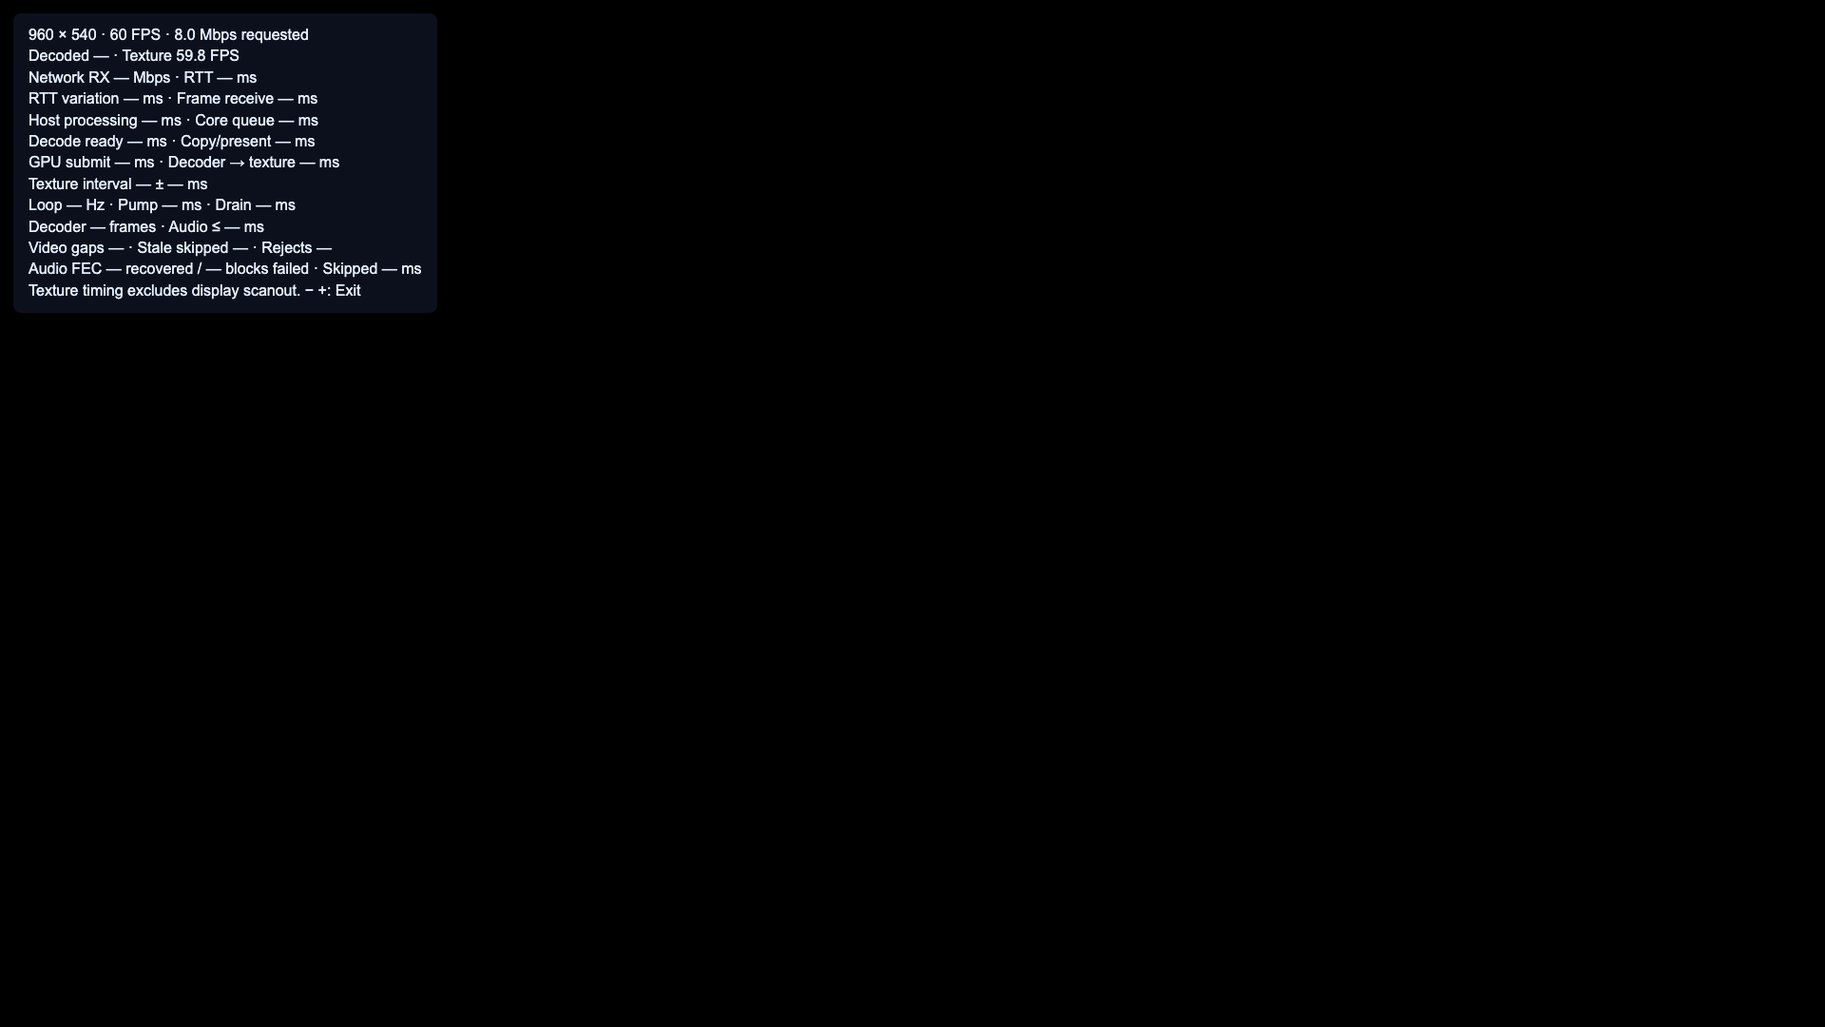
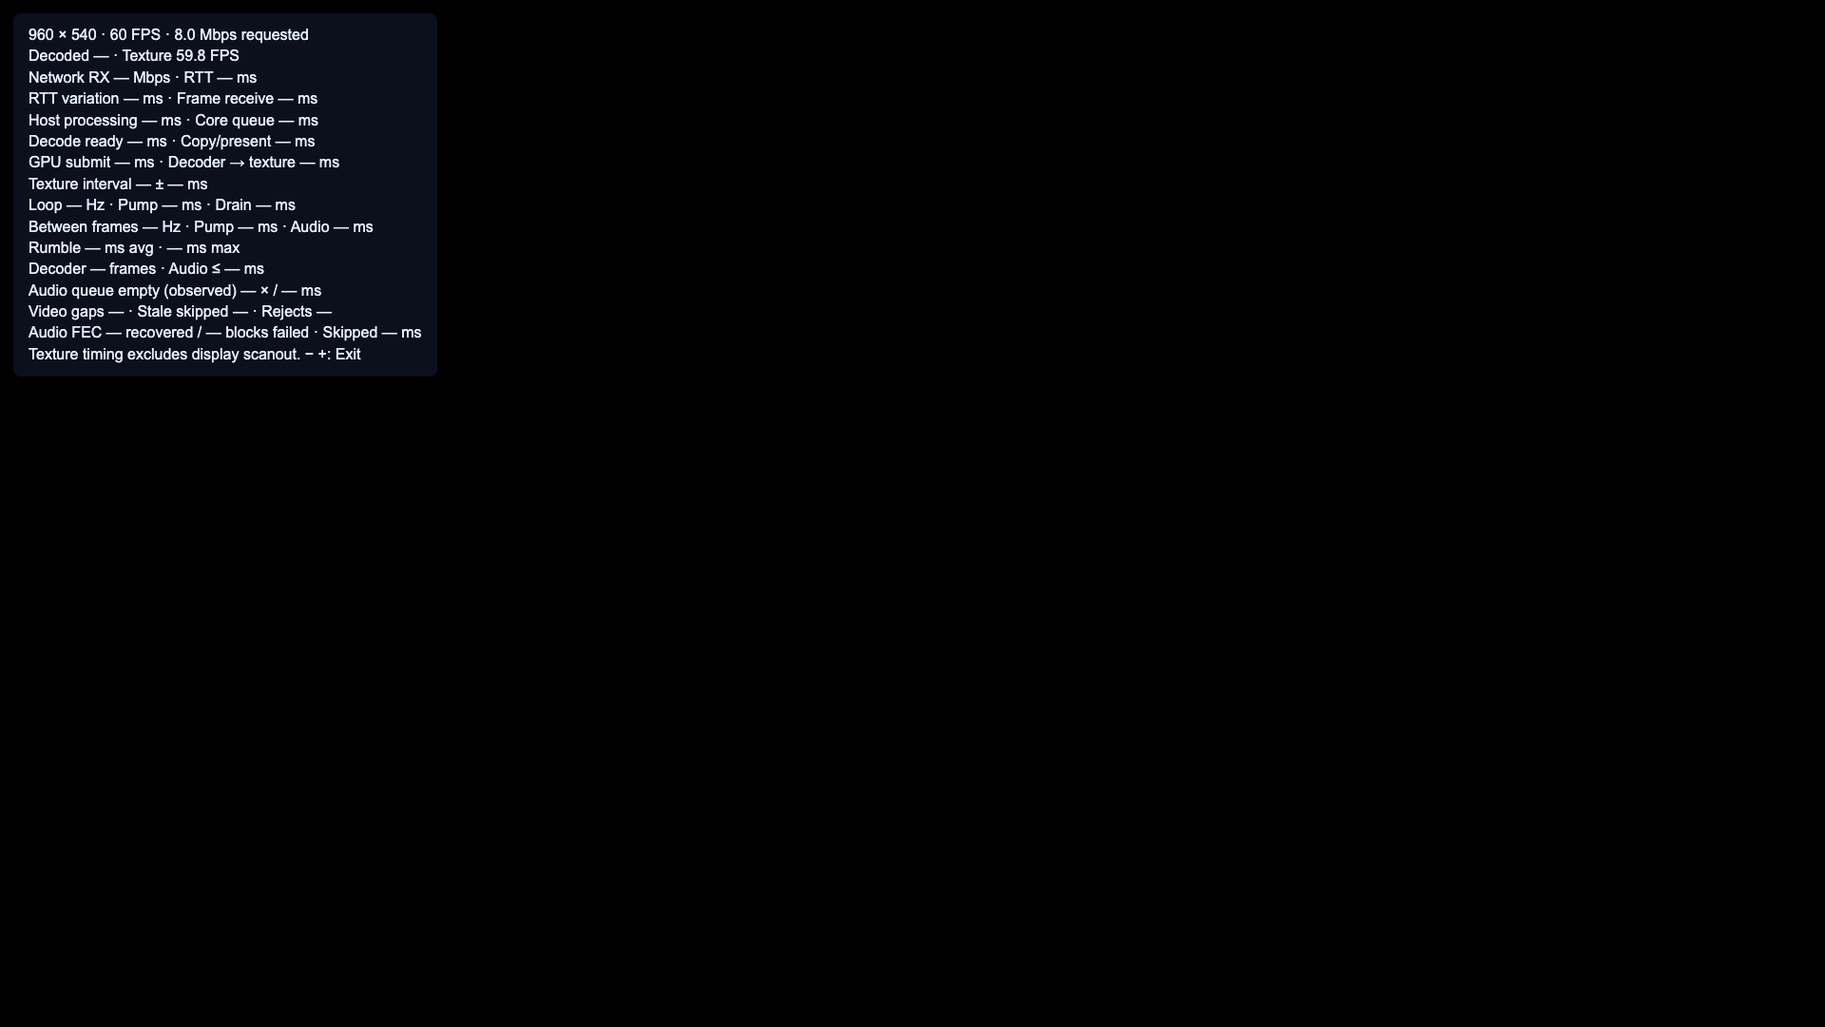
Audio buffering improvement

Changed region(s): [[0.0, 0.2139, 0.25, 0.3667]]

diff --git a/app/src/streaming/native-media.js b/app/src/streaming/native-media.js
@@ -220,18 +220,24 @@
   function audioSetup(rate,channels,streams,coupled,samples){
    if(rate!==48000||channels!==2||streams!==1||coupled!==1)throw Error("First audio adapter supports stereo Opus at 48 kHz");
    var stateBytes=number(sdk("nncodecLibopus_opus_decoder_get_size",[2]));if(stateBytes<1||stateBytes>1048576)throw Error("Invalid Opus state size");
-   audio={state:alloc(stateBytes),packet:alloc(65536),pcm:alloc(5760*4),staging:alloc((5760+audioBatchSamples)*4),pending:alloc(audioBatchSamples*4),pendingSamples:0,stagedSamples:0,out:alloc(1024),parameter:alloc(64),buffers:[],opened:false,started:false,decoded:0,queued:0,dropped:0,catchups:0,discardedSamples:0};
+   audio={state:alloc(stateBytes),packet:alloc(65536),staging:alloc((5760+audioBatchSamples)*4),pending:alloc(audioBatchSamples*4),pendingSamples:0,stagedSamples:0,out:alloc(1024),parameter:alloc(64),buffers:[],opened:false,started:false,decoded:0,queued:0,dropped:0,catchups:0,discardedSamples:0,emptyEpisodes:0,emptySince:null,emptyMs:0};
    if(number(sdk("nncodecLibopus_opus_decoder_init",[audio.state,48000,2])))throw Error("Opus decoder initialization failed");
    sdk("_ZN2nn5audio27InitializeAudioOutParameterEPNS0_17AudioOutParameterE",[audio.parameter]);write32(audio.parameter,48000n);write16(audio.parameter+4n,2n);
    var result=sdk("_ZN2nn5audio19OpenDefaultAudioOutEPNS0_8AudioOutERKNS0_17AudioOutParameterE",[audio.out,audio.parameter]);if(result&0x3fffffn)throw Error("AudioOut failed: 0x"+(result&0x3fffffn).toString(16));audio.opened=true;
    for(var i=0;i<audioPoolSize;i++)audio.buffers.push({node:alloc(64),data:(alloc(0x7000)+4095n)&~4095n,inUse:false,samples:0});
-   sdk("_ZN2nn5audio13StartAudioOutEPNS0_8AudioOutE",[audio.out]);audio.started=true;return 0;
+   // Prime both 20 ms buffers before starting the device. This is a one-time
+   // startup cushion, not a larger steady-state queue or a restart on starvation.
+   return 0;
   }
   function reclaimAudio(){
+   if(!audio.started)return;
    for(var i=0;i<audio.buffers.length;i++){
     var released=sdk("_ZN2nn5audio25GetReleasedAudioOutBufferEPNS0_8AudioOutE",[audio.out]);if(!released)break;
-    var item=audio.buffers.find(function(item){return item.node===released;});if(!item)throw Error("AudioOut returned an unknown buffer");item.inUse=false;
+    var item=audio.buffers.find(function(item){return item.node===released;});if(!item||!item.inUse)throw Error("AudioOut returned an unowned buffer");item.inUse=false;
    }
+   // Observed queue-empty periods are starvation indicators, not exact DSP
+   // underrun durations: reclamation itself is sampled by the JS scheduler.
+   if(!audio.buffers.some(function(item){return item.inUse;})&&audio.emptySince===null){audio.emptySince=now();audio.emptyEpisodes++;}
   }
   function queueAudio(buffer,source){
    var bytes=audioBatchSamples*4;
@@ -240,21 +246,29 @@
    sdk("_ZN2nn5audio21SetAudioOutBufferInfoEPNS0_14AudioOutBufferEPvmm",[buffer.node,buffer.data,0x6000,bytes]);
    if(!sdk("_ZN2nn5audio20AppendAudioOutBufferEPNS0_8AudioOutEPNS0_14AudioOutBufferE",[audio.out,buffer.node]))throw Error("Native audio queue rejected PCM");
    buffer.inUse=true;buffer.samples=audioBatchSamples;audio.queued++;
+   if(audio.emptySince!==null){audio.emptyMs+=Math.max(0,now()-audio.emptySince);audio.emptySince=null;}
+   if(!audio.started&&audio.buffers.every(function(item){return item.inUse;})){
+    var result=sdk("_ZN2nn5audio13StartAudioOutEPNS0_8AudioOutE",[audio.out]);
+    if(result&0x3fffffn)throw Error("AudioOut start failed: 0x"+(result&0x3fffffn).toString(16));audio.started=true;
+   }
   }
   function discardPendingAudio(){
    if(!audio.pendingSamples)return;
    audio.discardedSamples+=audio.pendingSamples;audio.dropped++;audio.catchups++;audio.pendingSamples=0;
   }
   function drainAudio(){
-   if(!audio||!audio.started||!audio.pendingSamples)return;
-   reclaimAudio();var buffer=audio.buffers.find(function(item){return !item.inUse;});
+   if(!audio||!audio.opened)return;
+   reclaimAudio();if(!audio.pendingSamples)return;var buffer=audio.buffers.find(function(item){return !item.inUse;});
    if(buffer){queueAudio(buffer,audio.pending);audio.pendingSamples=0;}
   }
   function audioFrame(pointer,length,heap){
-   if(!audio||!audio.started)return;
-   io.toNative(heap,pointer,length,audio.packet);var samples=number(sdk("nncodecLibopus_opus_decode",[audio.state,audio.packet,length,audio.pcm,5760,0]));if(samples<0)throw Error("Native Opus decode failed: "+samples);audio.decoded++;
+   if(!audio||!audio.opened)return;
+   // The retained partial chunk is below 960 samples; staging reserves a full
+   // 5760-sample decode after it. Decode there directly instead of copying PCM
+   // through an intermediate allocation on every Opus packet.
+   io.toNative(heap,pointer,length,audio.packet);var samples=number(sdk("nncodecLibopus_opus_decode",[audio.state,audio.packet,length,audio.staging+BigInt(audio.stagedSamples*4),5760,0]));if(samples<0)throw Error("Native Opus decode failed: "+samples);audio.decoded++;
    if(samples>5760)throw Error("Native Opus output exceeds PCM capacity");
-   call_rop(memcpy_addr,audio.staging+BigInt(audio.stagedSamples*4),audio.pcm,BigInt(samples*4));audio.stagedSamples+=samples;
+   audio.stagedSamples+=samples;
    // Two 20 ms native buffers plus one replaceable latest chunk. Keep Opus
    // state and active AudioOut buffers intact; drop only stale software PCM.
    var consumed=0;
@@ -281,7 +295,7 @@
    for(var p of owned.reverse())free(p);owned=[];started=false;configured=false;decoder=0n;audio=null;pendingFrames.clear();
   }
   return {videoSetup:videoSetup,videoFrame:videoFrame,audioSetup:audioSetup,audioFrame:audioFrame,drainVideo:drainVideo,finishVideo:function(deadline){var tail=Number.isFinite(deadline)&&gpuPipeline&&gpuPipeline.pending(),begin=tail?now():0,result=finishGpu(gpuPipeline,now,deadline);if(tail){gpuTailChecks++;if(result)gpuTailCompleted++;gpuTailMs+=now()-begin;}return result;},drainAudio:drainAudio,close:close,
-   stats:function(){return Object.assign({renderer:texture?(gpu?"native-gpu-texture":"native-texture"):"png",submitted:videoSubmitted,decoded:videoDecoded,presented:presented,videoSuperseded:videoSuperseded,videoDeferredTicks:videoDeferredTicks,videoExpired:videoExpired,videoBacklogDrops:videoBacklogDrops,gpuTransfers:gpuTransfers,gpuTransferMs:gpuTransferMs,nativePublishMs:nativePublishMs,gpuPolls:gpuPolls,gpuPendingPolls:gpuPendingPolls,gpuPollMs:gpuPollMs,gpuTailChecks:gpuTailChecks,gpuTailCompleted:gpuTailCompleted,gpuTailMs:gpuTailMs,gpuCompletionSamples:gpuCompletionSamples,gpuCompletionMs:gpuCompletionMs,videoPacerPending:videoPacer?videoPacer.pending():0,presentAgeMs:presentAgeMs,presentAgeSamples:presentAgeSamples,conversionMs:conversionMs,maxConversionMs:maxConversionMs,decodeSamples:decodeSamples,decodeMs:decodeMs,maxDecodeMs:maxDecodeMs,decoderPending:Math.max(0,videoSubmitted-videoDecoded),intervalCount:intervalCount,intervalMs:intervalMs,intervalSquaredMs:intervalSquaredMs,maxIntervalMs:maxIntervalMs,audioBufferedMsUpperBound:audio?(audio.stagedSamples+audio.pendingSamples+audio.buffers.reduce(function(sum,item){return sum+(item.inUse?item.samples:0);},0))/48:0,audioQueueLimitMs:audioBatchSamples*(audioPoolSize+1)/48,audioCatchups:audio?audio.catchups:0,audioDiscardedMs:audio?audio.discardedSamples/48:0,audioDecoded:audio?audio.decoded:0,audioQueued:audio?audio.queued:0,audioDropped:audio?audio.dropped:0},texture?texture.stats():{});}};
+   stats:function(){return Object.assign({renderer:texture?(gpu?"native-gpu-texture":"native-texture"):"png",submitted:videoSubmitted,decoded:videoDecoded,presented:presented,videoSuperseded:videoSuperseded,videoDeferredTicks:videoDeferredTicks,videoExpired:videoExpired,videoBacklogDrops:videoBacklogDrops,gpuTransfers:gpuTransfers,gpuTransferMs:gpuTransferMs,nativePublishMs:nativePublishMs,gpuPolls:gpuPolls,gpuPendingPolls:gpuPendingPolls,gpuPollMs:gpuPollMs,gpuTailChecks:gpuTailChecks,gpuTailCompleted:gpuTailCompleted,gpuTailMs:gpuTailMs,gpuCompletionSamples:gpuCompletionSamples,gpuCompletionMs:gpuCompletionMs,videoPacerPending:videoPacer?videoPacer.pending():0,presentAgeMs:presentAgeMs,presentAgeSamples:presentAgeSamples,conversionMs:conversionMs,maxConversionMs:maxConversionMs,decodeSamples:decodeSamples,decodeMs:decodeMs,maxDecodeMs:maxDecodeMs,decoderPending:Math.max(0,videoSubmitted-videoDecoded),intervalCount:intervalCount,intervalMs:intervalMs,intervalSquaredMs:intervalSquaredMs,maxIntervalMs:maxIntervalMs,audioBufferedMsUpperBound:audio?(audio.stagedSamples+audio.pendingSamples+audio.buffers.reduce(function(sum,item){return sum+(item.inUse?item.samples:0);},0))/48:0,audioQueueLimitMs:audioBatchSamples*(audioPoolSize+1)/48,audioCatchups:audio?audio.catchups:0,audioDiscardedMs:audio?audio.discardedSamples/48:0,audioDecoded:audio?audio.decoded:0,audioQueued:audio?audio.queued:0,audioDropped:audio?audio.dropped:0,audioPrimed:!!(audio&&audio.started),audioPrefillMs:audioBatchSamples*audioPoolSize/48,audioEmptyEpisodes:audio?audio.emptyEpisodes:0,audioEmptyMs:audio?audio.emptyMs+(audio.emptySince===null?0:Math.max(0,now()-audio.emptySince)):0},texture?texture.stats():{});}};
  }
  global.MoonlightStreamMedia={create:create,drainLatest:drainLatest,createGpuPipeline:createGpuPipeline,finishGpu:finishGpu,createVideoPacer:createVideoPacer};
 })(window);

diff --git a/app/src/streaming/stream-client.js b/app/src/streaming/stream-client.js
@@ -2,20 +2,27 @@
 (function(global){
  "use strict";
  function createClock(){
-  var pending=null,stats={frameWakes:0,timerWakes:0,forcedWakes:0,waitMs:0,maxWaitMs:0};
+  var pending=null,stats={frameWakes:0,timerWakes:0,forcedWakes:0,serviceWakes:0,waitMs:0,maxWaitMs:0};
   function now(){return global.performance&&global.performance.now?global.performance.now():Date.now();}
-  function wait(){
+  function wait(service){
    if(pending)return pending.promise;
-   var resolve,promise=new Promise(function(done){resolve=done;}),entry={promise:promise,frame:null,timer:null,begin:now()};pending=entry;
-   entry.finish=function(reason){
+   var resolve,reject,promise=new Promise(function(done,fail){resolve=done;reject=fail;}),entry={promise:promise,frame:null,timer:null,serviceTimer:null,begin:now()};pending=entry;
+   entry.finish=function(reason,error){
     if(pending!==entry)return;pending=null;
     if(entry.frame!==null)global.cancelAnimationFrame(entry.frame);if(entry.timer!==null)clearTimeout(entry.timer);
-    var elapsed=now()-entry.begin;stats.waitMs+=elapsed;stats.maxWaitMs=Math.max(stats.maxWaitMs,elapsed);stats[reason+"Wakes"]++;resolve();
+    if(entry.serviceTimer!==null)clearTimeout(entry.serviceTimer);
+    var elapsed=now()-entry.begin;stats.waitMs+=elapsed;stats.maxWaitMs=Math.max(stats.maxWaitMs,elapsed);stats[reason+"Wakes"]++;if(error)reject(error);else resolve();
    };
    var framed=typeof global.requestAnimationFrame==="function";
    // A hidden page may stop animation callbacks; keep startup/stop progressing.
    entry.timer=setTimeout(function(){entry.finish("timer");},framed?50:2);
    if(framed)entry.frame=global.requestAnimationFrame(function(){entry.finish("frame");});
+   // One bounded receive/audio turn can use otherwise idle time. Keep the same
+   // pending display callback; this timer never presents video or rearms itself.
+   if(framed&&service)entry.serviceTimer=setTimeout(function(){
+    entry.serviceTimer=null;if(pending!==entry)return;stats.serviceWakes++;
+    try{service();}catch(error){entry.finish("forced",error);}
+   },4);
    return promise;
   }
   return {wait:wait,wake:function(){if(pending)pending.finish("forced");},stats:stats};
@@ -59,6 +66,17 @@
   // At 40 Mbps, an earlier output check leaves more GPU overlap time.
   var completionBudgetMs=pumpBudgetMs===12&&mode.bitrate<40000?6:4;
   var telemetry=global.MoonlightTelemetry.create(),clock=createClock(),pumpMs=0,drainMs=0,iterations=0,maxPumpMs=0,maxDrainMs=0;
+  var serviceIterations=0,servicePumpMs=0,serviceDrainMs=0,maxServiceMs=0,waitBudgetMs=0;
+  function serviceBetweenFrames(){
+   if(stopRequested||failure||core._ml_session_state()!==2)return;
+   var begin=global.MoonlightTelemetry.now();core._ml_runtime_pump(2);var pumped=global.MoonlightTelemetry.now();media.drainAudio();var drained=global.MoonlightTelemetry.now();
+   serviceIterations++;servicePumpMs+=pumped-begin;serviceDrainMs+=drained-pumped;maxServiceMs=Math.max(maxServiceMs,drained-begin);
+   // Charge at least the requested slice, including any observed native-call
+   // overrun, against the following display tick. Never create extra CPU budget.
+   waitBudgetMs=Math.max(2,drained-begin);
+   if(failure)throw failure;
+   if(core._ml_session_state()===3)throw Error("Core connection failed: "+core._ml_session_error());
+  }
   var rumble=createRumbleOutput(mode.rumble!==false&&typeof options.onRumble==="function"?options.onRumble:null,global.MoonlightTelemetry.now);
   var inputStats={gamepadQueued:0,gamepadRejected:0};
   function collect(active){
@@ -68,6 +86,7 @@
    snapshot.packetPool=global.MoonlightTelemetry.readPacketPool?global.MoonlightTelemetry.readPacketPool(core):null;
    snapshot.input=Object.assign({},inputStats);
    snapshot.rumble=Object.assign({},rumble.stats);
+   Object.assign(snapshot,{serviceIterations:serviceIterations,servicePumpMs:servicePumpMs,serviceDrainMs:serviceDrainMs,maxServiceMs:maxServiceMs});
    snapshot.telemetry=telemetry.sample(snapshot,active?global.MoonlightTelemetry.readCore(core):null);return snapshot;
   }
   function status(text){if(options.onStatus)options.onStatus(text);}
@@ -125,14 +144,15 @@
     }finally{session.key.fill(0);for(var p of pointers)core._free(p);}
     startedAt=Date.now();var lastStats=0;
     while(!stopRequested){
-     await clock.wait();if(stopRequested)break;
+     waitBudgetMs=0;await clock.wait(cpu?null:serviceBetweenFrames);if(stopRequested)break;
      // Queue video early and service the core while its GPU copy completes.
      // A nonblocking fence check publishes once; pending work keeps its slot.
      // At 40 Mbps, an empty early drain gets one retry after the first pump. Final fence
      // queries may use up to 3 ms of remaining frame headroom.
+     var frameBudgetMs=Math.max(0,pumpBudgetMs-waitBudgetMs),firstBudgetMs=Math.min(completionBudgetMs,frameBudgetMs);
      var begin=global.MoonlightTelemetry.now(),videoOccupied=media.drainVideo();var early=global.MoonlightTelemetry.now();
-     core._ml_runtime_pump(completionBudgetMs);var pumpedEarly=global.MoonlightTelemetry.now();media.finishVideo();if(!videoOccupied&&mode.bitrate>=40000)media.drainVideo();var finishedEarly=global.MoonlightTelemetry.now();
-     core._ml_runtime_pump(pumpBudgetMs-completionBudgetMs);var pumped=global.MoonlightTelemetry.now();media.finishVideo(Math.min(begin+pumpBudgetMs+2,global.MoonlightTelemetry.now()+3));media.drainAudio();var drained=global.MoonlightTelemetry.now();
+     if(firstBudgetMs>0)core._ml_runtime_pump(firstBudgetMs);var pumpedEarly=global.MoonlightTelemetry.now();media.finishVideo();if(!videoOccupied&&mode.bitrate>=40000)media.drainVideo();var finishedEarly=global.MoonlightTelemetry.now();
+     if(frameBudgetMs>firstBudgetMs)core._ml_runtime_pump(frameBudgetMs-firstBudgetMs);var pumped=global.MoonlightTelemetry.now();media.finishVideo(Math.min(begin+frameBudgetMs+2,global.MoonlightTelemetry.now()+3));media.drainAudio();var drained=global.MoonlightTelemetry.now();
      var pumpElapsed=pumpedEarly-early+pumped-finishedEarly,drainElapsed=early-begin+finishedEarly-pumpedEarly+drained-pumped;
      pumpMs+=pumpElapsed;drainMs+=drainElapsed;maxPumpMs=Math.max(maxPumpMs,pumpElapsed);maxDrainMs=Math.max(maxDrainMs,drainElapsed);iterations++;
      rumble.flush();

diff --git a/app/src/streaming/telemetry.js b/app/src/streaming/telemetry.js
@@ -39,7 +39,9 @@
     presentAgeMs:mean("presentAgeMs","presentAgeSamples"),videoPacerPending:s.videoPacerPending||0,
     frameIntervalMs:interval,frameJitterMs:interval===null?null:Math.sqrt(Math.max(0,interval2-interval*interval)),
     loopHz:seconds?delta("iterations")/seconds:null,pumpAvgMs:mean("pumpMs","iterations"),drainAvgMs:mean("drainMs","iterations"),
+    serviceHz:seconds?delta("serviceIterations")/seconds:null,servicePumpAvgMs:mean("servicePumpMs","serviceIterations"),serviceDrainAvgMs:mean("serviceDrainMs","serviceIterations"),
     decoderPending:s.decoderPending||0,videoSuperseded:s.videoSuperseded||0,audioBufferedMsUpperBound:s.audioBufferedMsUpperBound||0,audioQueueLimitMs:s.audioQueueLimitMs||0,audioCatchups:s.audioCatchups||0,audioDiscardedMs:s.audioDiscardedMs||0,audioDropped:s.audioDropped||0,
+    audioPrimed:!!s.audioPrimed,audioPrefillMs:s.audioPrefillMs||0,audioEmptyEpisodes:s.audioEmptyEpisodes||0,audioEmptyMs:s.audioEmptyMs||0,
     videoFrameGaps:protocol?protocol[20]:null,decoderRejected:protocol?protocol[21]:null,audioRecovered:protocol?protocol[18]:null,audioFecFailed:protocol?protocol[19]:null,
     rumbleAvgMs:rumbleUpdates?Math.max(0,(rumble.totalMs||0)-(oldRumble.totalMs||0))/rumbleUpdates:null,rumbleMaxMs:rumble.maxMs||0,
     directReceivedBytes:net.directReceivedBytes||0};
@@ -54,9 +56,9 @@
   function copy(value){return value?Object.assign({},value):null;}
   return {samples:samples,reset:function(){samples.length=0;},record:function(stats){
    var net=stats.network||{};
-   samples.push({time:Date.now(),mode:copy(stats.mode),telemetry:copy(stats.telemetry),fec:copy(stats.fec),input:copy(stats.input),rumble:copy(stats.rumble),packetPool:copy(stats.packetPool),referenceRecovery:!!stats.referenceRecovery,
+   samples.push({time:Date.now(),mode:copy(stats.mode),telemetry:copy(stats.telemetry),clock:copy(stats.clock),fec:copy(stats.fec),input:copy(stats.input),rumble:copy(stats.rumble),packetPool:copy(stats.packetPool),referenceRecovery:!!stats.referenceRecovery,
     network:{receivedBytes:net.receivedBytes||0,sentBytes:net.sentBytes||0,directVideoPackets:net.directVideoPackets||0,batchCopiedBytes:net.batchCopiedBytes||0,receiveWouldBlock:net.receiveWouldBlock||0},
-    videoExpired:stats.videoExpired||0,videoBacklogDrops:stats.videoBacklogDrops||0,maxPumpMs:stats.maxPumpMs||0,maxDrainMs:stats.maxDrainMs||0});
+    videoExpired:stats.videoExpired||0,videoBacklogDrops:stats.videoBacklogDrops||0,maxPumpMs:stats.maxPumpMs||0,maxDrainMs:stats.maxDrainMs||0,maxServiceMs:stats.maxServiceMs||0});
    if(samples.length>600)samples.shift();
   }};
  }
@@ -71,8 +73,10 @@
    "GPU submit "+f(t.gpuTransferMs)+" ms · Decoder → texture "+f(t.presentAgeMs)+" ms",
    "Texture interval "+f(t.frameIntervalMs)+" ± "+f(t.frameJitterMs)+" ms",
    "Loop "+f(t.loopHz)+" Hz · Pump "+f(t.pumpAvgMs)+" ms · Drain "+f(t.drainAvgMs)+" ms",
+   "Between frames "+f(t.serviceHz)+" Hz · Pump "+f(t.servicePumpAvgMs)+" ms · Audio "+f(t.serviceDrainAvgMs)+" ms",
    "Rumble "+f(t.rumbleAvgMs)+" ms avg · "+f(t.rumbleMaxMs)+" ms max",
    "Decoder "+f(t.decoderPending,0)+" frames · Audio ≤ "+f(t.audioBufferedMsUpperBound,0)+" ms",
+   "Audio queue empty (observed) "+f(t.audioEmptyEpisodes,0)+" × / "+f(t.audioEmptyMs,0)+" ms",
    "Video gaps "+f(t.videoFrameGaps,0)+" · Stale skipped "+f(t.videoSuperseded,0)+" · Rejects "+f(t.decoderRejected,0),
    "Audio FEC "+f(t.audioRecovered,0)+" recovered / "+f(t.audioFecFailed,0)+" blocks failed · Skipped "+f(t.audioDiscardedMs,0)+" ms",
    "Texture timing excludes display scanout. − +: Exit"].join("\n");

diff --git a/docs/streaming.md b/docs/streaming.md
@@ -98,7 +98,10 @@ execution time. The copy/present counter excludes overlapped GPU execution; fenc
 poll CPU cost is tracked separately.
 
 Audio uses fixed 20 ms PCM chunks, two native buffers (40 ms), and one replaceable
-software chunk (20 ms). The completed-PCM budget is 60 ms; partial staging adds
+software chunk (20 ms). AudioOut starts once both native buffers are queued, giving
+a one-time 40 ms prefill. Opus decodes directly after the retained partial chunk
+in native staging, removing the former intermediate PCM allocation and copy.
+The completed-PCM budget is 60 ms; partial staging adds
 less than 20 ms (normally at most 15 ms for Sunshine's 5 ms packets). Pending audio
 is drained between cooperative pumps as native capacity becomes available. When
 there is room, pending samples are preserved in order. On sustained backpressure,
@@ -108,6 +111,11 @@ decoded so dropping PCM does not corrupt decoder state. Long decoded packets are
 split into the same bounded chunks. The overlay reports deliberately skipped
 audio duration, separate from network FEC failures. This trades stale audio for
 bounded buffering when the scheduler or network falls behind.
+
+The overlay and RAM history record observed queue-empty episodes and time until
+the next successful append. They exclude prefill and do not restart playback.
+These are sampled starvation indicators, not exact DSP underrun durations or
+played-sample measurements; a queue can empty between observations.
 
 Loss indicators are video frame-number gaps, native decoder rejections, audio
 packets recovered by FEC, failed audio recovery blocks, and local audio-buffer
@@ -146,8 +154,16 @@ messages (at most 512 characters each). This avoids blocking the JS/input loop i
 the loader's TCP logger during Wi-Fi trouble. The overlay still updates once a
 second. Diagnostics are not automatically flushed to the network on exit.
 
-The stream loop runs on animation callbacks, with a 50 ms watchdog when rendering
-callbacks stop. Each iteration first tries video, then runs two cooperative C
+The stream loop presents on animation callbacks, with a 50 ms watchdog when rendering
+callbacks stop. While awaiting a callback, GPU modes schedule at most one service
+turn after 4 ms: up to 2 ms of cooperative packet/input/audio work, followed by
+pending AudioOut delivery. It never publishes video or reschedules itself. Its
+requested budget or observed total cost, whichever is larger, is deducted from
+the following frame's pump allowance; an overrun can consume that allowance
+completely. The display callback remains pending, and frame/stop/error cancels
+the service timer. CPU diagnostic renderers keep their original scheduling.
+Separate service counters and timings are retained in the overlay/RAM history.
+Each display iteration first tries video, then runs two cooperative C
 pumps (budgets detailed below). A fence check between them releases completed
 video promptly. At 40 Mbps or higher, if the early drain did not submit or publish video, one mid-frame
 decoder check can use output that became ready during the first pump. A retained
